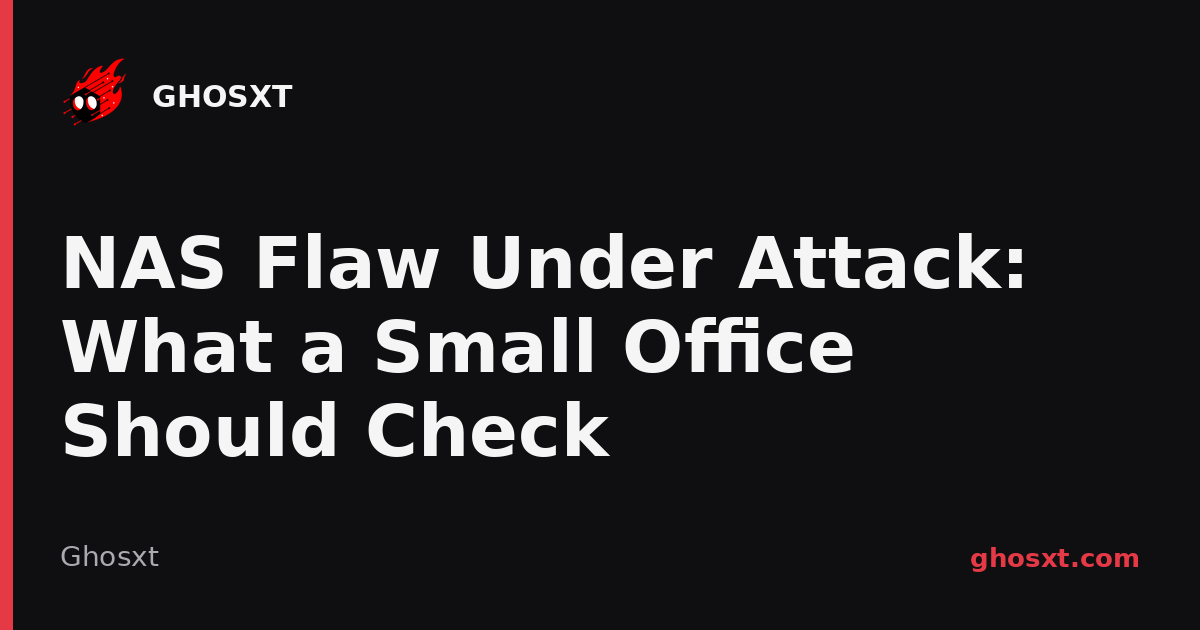
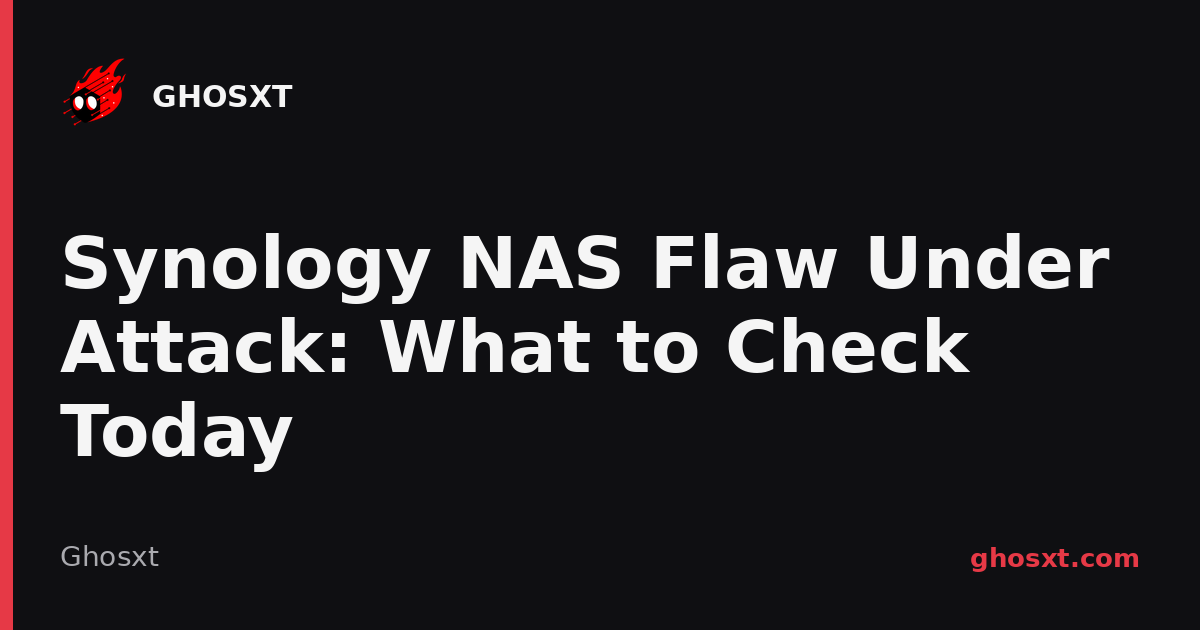
Name the affected NAS product and cite CISA's alert
Owner approved naming the maker in this post (chat, Nov 22), so the page
now names Synology DiskStation Manager, lists the fixed DSM releases and
links the Nov 10 advisory plus CISA's Nov 18 alert. Title, H1, meta, FAQ
and the blog index card updated to match; OG image re-rendered.

Regenerated: blog/all.html, feed.xml, assets/img/og/blog-nas-flaw-cisa-exploited-network-storage-small-business-2026.png

Claude-Session: https://claude.ai/code/session_01JpBd4DgE6mkjzECiG9Gj6x

Changed region(s): [[0.0308, 0.3619, 0.925, 0.6032], [0.0308, 0.6333, 0.2775, 0.754], [0.3083, 0.6333, 0.5242, 0.7238]]

diff --git a/blog/nas-flaw-cisa-exploited-network-storage-small-business-2026.html b/blog/nas-flaw-cisa-exploited-network-storage-small-business-2026.html
@@ -4,22 +4,22 @@
     <meta charset="UTF-8" />
     <meta name="viewport" content="width=device-width, initial-scale=1.0" />
     <meta name="theme-color" content="#ffffff" />
-    <title>NAS Flaw Under Attack: What a Small Office Should Check</title>
-    <meta name="description" content="CISA says a 2024 network storage (NAS) flaw is being exploited. What a small office should check today, and why a NAS on its own is not a backup." />
+    <title>Synology NAS Flaw Under Attack: What to Check Today</title>
+    <meta name="description" content="CISA says a 2024 Synology NAS flaw (CVE-2024-10441) is being exploited. What a small office should check today, and why a NAS is not a backup." />
     <link rel="canonical" href="https://ghosxt.com/blog/nas-flaw-cisa-exploited-network-storage-small-business-2026" />
     <link rel="alternate" type="application/rss+xml" title="Ghosxt Blog" href="https://ghosxt.com/feed.xml" />
     <meta property="og:type" content="article" />
     <meta property="og:url" content="https://ghosxt.com/blog/nas-flaw-cisa-exploited-network-storage-small-business-2026" />
-    <meta property="og:title" content="NAS Flaw Under Attack: What a Small Office Should Check" />
-    <meta property="og:description" content="On November 18, 2026, CISA added a critical network storage (NAS) flaw to its Known Exploited Vulnerabilities catalog. The fix has been available since 2024, which is the point: the box nobody logs into is the one nobody updates. What a small business should check today, why a NAS is not a backup, and what to do if one is behind on updates." />
+    <meta property="og:title" content="Synology NAS Flaw Under Attack: What to Check Today" />
+    <meta property="og:description" content="On November 18, 2026, CISA added a critical Synology NAS flaw (CVE-2024-10441) to its Known Exploited Vulnerabilities catalog. The fix has been available since 2024, which is the point: the box nobody logs into is the one nobody updates. What a small business should check today, why a NAS is not a backup, and what to do if one is behind on updates." />
     <meta property="og:image" content="https://ghosxt.com/assets/img/og/blog-nas-flaw-cisa-exploited-network-storage-small-business-2026.png" />
     <meta property="og:site_name" content="Ghosxt" />
     <meta property="article:published_time" content="2026-11-22" />
     <meta property="article:author" content="Ulises Paiz" />
     <meta name="robots" content="index, follow" />
     <meta name="twitter:card" content="summary_large_image" />
-    <meta name="twitter:title" content="NAS Flaw Under Attack: What a Small Office Should Check" />
-    <meta name="twitter:description" content="A critical NAS flaw fixed in 2024 is now being exploited, and the federal deadline passed yesterday. The plain-English checklist for a small office." />
+    <meta name="twitter:title" content="Synology NAS Flaw Under Attack: What to Check Today" />
+    <meta name="twitter:description" content="A critical Synology NAS flaw fixed in 2024 is now being exploited, and the federal deadline passed yesterday. The plain-English checklist for a small office." />
     <meta name="twitter:image" content="https://ghosxt.com/assets/img/og/blog-nas-flaw-cisa-exploited-network-storage-small-business-2026.png" />
     <link rel="icon" href="../assets/img/favicon.ico" sizes="any" />
     <link rel="icon" href="../assets/img/favicon.svg" type="image/svg+xml" />
@@ -45,8 +45,8 @@
               "@type": "WebPage",
               "@id": "https://ghosxt.com/blog/nas-flaw-cisa-exploited-network-storage-small-business-2026"
             },
-            "headline": "A 2024 Network Storage Flaw Is Now Under Attack: What a Small Business Should Check Today",
-            "description": "On November 18, 2026, CISA added a critical network storage (NAS) flaw to its Known Exploited Vulnerabilities catalog. The fix has been available since 2024, which is the point: the box nobody logs into is the one nobody updates. What a small business should check today, why a NAS is not a backup, and what to do if one is behind on updates.",
+            "headline": "A 2024 Synology NAS Flaw Is Now Under Attack: What a Small Business Should Check Today",
+            "description": "On November 18, 2026, CISA added a critical Synology NAS flaw (CVE-2024-10441) to its Known Exploited Vulnerabilities catalog. The fix has been available since 2024, which is the point: the box nobody logs into is the one nobody updates. What a small business should check today, why a NAS is not a backup, and what to do if one is behind on updates.",
             "image": "https://ghosxt.com/assets/img/og/blog-nas-flaw-cisa-exploited-network-storage-small-business-2026.png",
             "author": {
               "@type": "Person",
@@ -64,7 +64,7 @@
             "datePublished": "2026-11-22",
             "dateModified": "2026-11-22",
             "articleSection": "Cybersecurity",
-            "keywords": "NAS vulnerability, network attached storage security, CVE-2024-10441, CISA Known Exploited Vulnerabilities, NAS ransomware, small business backup, NAS firmware update, network storage remote code execution, patch management small business, Monterey County, Central Coast managed IT"
+            "keywords": "Synology NAS vulnerability, Synology DiskStation Manager DSM, CVE-2024-10441, network attached storage security, CISA Known Exploited Vulnerabilities, NAS ransomware, small business backup, NAS firmware update, network storage remote code execution, patch management small business, Monterey County, Central Coast managed IT"
           },
           {
             "@type": "BreadcrumbList",
@@ -84,7 +84,7 @@
               {
                 "@type": "ListItem",
                 "position": 3,
-                "name": "NAS Flaw Under Attack",
+                "name": "Synology NAS Flaw Under Attack",
                 "item": "https://ghosxt.com/blog/nas-flaw-cisa-exploited-network-storage-small-business-2026"
               }
             ]
@@ -94,18 +94,18 @@
             "mainEntity": [
               {
                 "@type": "Question",
-                "name": "What is the network storage flaw CISA added to its exploited list?",
+                "name": "What is the Synology NAS flaw CISA added to its exploited list?",
                 "acceptedAnswer": {
                   "@type": "Answer",
-                  "text": "CVE-2024-10441 is an output-encoding flaw in the operating system of a widely used line of small-office network storage (NAS) devices. It is rated Critical with a CVSS score of 9.8 and can lead to remote code execution, meaning an attacker runs their own commands on the device. CISA added it to its Known Exploited Vulnerabilities catalog on November 18, 2026, on evidence that attackers are using it. The maker published fixes in November 2024, so the problem today is devices that never received them. The CISA catalog entry names the affected product."
+                  "text": "CVE-2024-10441 is an output-encoding flaw in Synology DiskStation Manager (DSM), the operating system on Synology network storage (NAS) devices. It is rated Critical with a CVSS score of 9.8 and can lead to remote code execution, meaning an attacker runs their own commands on the device. CISA added it to its Known Exploited Vulnerabilities catalog on November 18, 2026, on evidence that attackers are using it. Synology published fixes in November 2024, so the problem today is devices that never received them."
                 }
               },
               {
                 "@type": "Question",
-                "name": "Does this affect a small office that has a NAS?",
+                "name": "Does this affect a small office that has a Synology NAS?",
                 "acceptedAnswer": {
                   "@type": "Answer",
-                  "text": "It can. If your office has a network storage box, find out who makes it and what version it is running, then compare it with the maker's advisory for CVE-2024-10441. Reports describe the flaw as needing no login and no user action, so a device that can be reached over the network, especially one reachable from the internet, should be treated as exposed until it is confirmed updated. A device that is current on its firmware is covered."
+                  "text": "It can. Sign in to the device, read the DSM version, and compare it with the fixed releases: 7.2.2-72806-1, 7.2.1-69057-6 or 7.2-64570-4, or later. Reports describe the flaw as needing no login and no user action, so a device that can be reached over the network, especially one reachable from the internet, should be treated as exposed until it is confirmed updated. A device that is current on its firmware is covered. If your NAS is a different brand, this flaw does not apply, but the checklist in this post does."
                 }
               },
               {
@@ -113,7 +113,7 @@
                 "name": "Was this flaw used in ransomware attacks?",
                 "acceptedAnswer": {
                   "@type": "Answer",
-                  "text": "CISA's catalog lists ransomware use for this flaw as unknown. One report says the maker stated earlier in November that the flaw was exploited in ransomware attacks on NAS devices, and that the attacks reportedly used a family called C3RB3R. We could not confirm that from a primary source, so treat it as reported, not proven. Either way, a NAS that holds shared files and backups is exactly what ransomware operators want to reach."
+                  "text": "CISA's catalog lists ransomware use for this flaw as unknown. One report says Synology stated earlier in November that the flaw was exploited in ransomware attacks on NAS devices, and that the attacks reportedly used a family called C3RB3R. We could not confirm that from a primary source, so treat it as reported, not proven. Either way, a NAS that holds shared files and backups is exactly what ransomware operators want to reach."
                 }
               },
               {
@@ -291,7 +291,7 @@
       <header class="blog-post-header">
         <div class="container">
           <nav class="blog-post-breadcrumbs" aria-label="Breadcrumb">
-            <a href="/">Home</a><span class="sep">&rsaquo;</span><a href="/blog/">Blog</a><span class="sep">&rsaquo;</span><span aria-current="page">NAS Flaw Under Attack</span>
+            <a href="/">Home</a><span class="sep">&rsaquo;</span><a href="/blog/">Blog</a><span class="sep">&rsaquo;</span><span aria-current="page">Synology NAS Flaw Under Attack</span>
           </nav>
           <div class="blog-post-meta">
             <time datetime="2026-11-22">November 22, 2026</time>
@@ -300,7 +300,7 @@
             <span>&middot;</span>
             <span class="blog-card-tag">Cybersecurity</span>
           </div>
-          <h1>A 2024 Network Storage Flaw Is Now Under Attack: What a Small Business Should Check Today</h1>
+          <h1>A 2024 Synology NAS Flaw Is Now Under Attack: What a Small Business Should Check Today</h1>
           <div class="blog-post-author">
             <strong>Ulises Paiz</strong>, Owner, Ghosxt
           </div>
@@ -314,39 +314,41 @@
       <div class="blog-post-body">
         <div class="container">
           <aside class="blog-post-quickfix" aria-label="Summary and what to do now">
-            <span class="quickfix-label">TL;DR: a critical NAS flaw fixed in 2024 is now being exploited</span>
-            <h2>On November 18, CISA added a critical network storage flaw to its list of vulnerabilities attackers are using right now. The fix has existed since November 2024. The risk is the NAS in your closet that nobody has logged into since the day it was set up, and it is often the same box that holds your shared files and your backups.</h2>
+            <span class="quickfix-label">TL;DR: a critical Synology NAS flaw fixed in 2024 is now being exploited</span>
+            <h2>On November 18, CISA added a critical Synology NAS flaw to its list of vulnerabilities attackers are using right now. The fix has existed since November 2024. The risk is the NAS in your closet that nobody has logged into since the day it was set up, and it is often the same box that holds your shared files and your backups.</h2>
             <ul>
-              <li><strong>The flaw:</strong> CVE-2024-10441, CVSS 9.8, remote code execution in the operating system of a popular line of small-office NAS devices. Reports say it needs no login and no user action.</li>
+              <li><strong>The flaw:</strong> CVE-2024-10441, CVSS 9.8, remote code execution in Synology DiskStation Manager (DSM), the operating system on Synology NAS devices. Reports say it needs no login and no user action.</li>
               <li><strong>The status:</strong> CISA lists it as exploited. The federal deadline to patch was November 21, which was yesterday. Ransomware use is listed as unknown by CISA, though one report ties it to ransomware attacks on NAS devices.</li>
               <li><strong>The easy miss:</strong> a NAS is an appliance. Windows Update never touches it, and no patch tool reports on it unless someone adds it.</li>
             </ul>
             <p>Do this now:</p>
             <ol>
-              <li>Find every network storage box in the office and write down who makes it and which model it is.</li>
+              <li>Find every network storage box in the office and note the maker and model. A Synology is the product in this flaw.</li>
               <li>Sign in as an administrator, check the version, and install the maker's latest update. If nobody can sign in, call whoever set it up or call us.</li>
               <li>Confirm the admin page and file ports are not reachable from the internet, and that a second copy of your data lives somewhere the NAS cannot touch.</li>
             </ol>
             <p>This is the appliance side of the story in our <a href="/blog/november-2026-patch-tuesday-outlook-zero-day-smb">November Patch Tuesday post</a>. Our <a href="/managed-it-services">managed IT page</a> covers how patching reaches the devices Windows Update does not.</p>
           </aside>
 
-          <p>CISA, the US cybersecurity agency, added four vulnerabilities to its Known Exploited Vulnerabilities catalog on November 18, 2026, and one of them is in the software that runs a popular line of small-office network storage devices, known as NAS boxes. This post is for any small business in Monterey County and surrounding areas that keeps files or backups on one. It explains what the flaw is, why a two-year-old bug is suddenly urgent, what to check today, and what to do if a device turns out to be behind.</p>
+          <p>CISA, the US cybersecurity agency, added four vulnerabilities to its Known Exploited Vulnerabilities catalog on November 18, 2026, and one of them is in Synology DiskStation Manager (DSM), the software that runs Synology network storage devices, known as NAS boxes. This post is for any small business in Monterey County and surrounding areas that keeps files or backups on one. It explains what the flaw is, why a two-year-old bug is suddenly urgent, what to check today, and what to do if a device turns out to be behind.</p>
 
           <h2>What this means for a small business</h2>
 
           <p>The blind spot is the appliance. Computers get monthly updates because Windows prompts for them, and an owner reasonably assumes the rest of the network gets the same treatment. A NAS does not. It is a small server with its own operating system, its own admin page and its own update process, and it is usually set up once, by whoever was handy, and then left alone because it keeps working. Nothing breaks, so nothing prompts anyone to look.</p>
 
-          <p>That is what makes this month's addition worth a read even though the fix is old. According to <a href="https://smartscope.blog/en/blog/synology-diskstation-manager-dsm-cisa-adds-vulnerability-cve-2026/" target="_blank" rel="noopener noreferrer">SmartScope's summary</a> of the maker's advisory, fixes were published in November 2024. Attackers are using the flaw in November 2026 because enough devices are still running the old software to be worth the effort. A patch that exists does not protect a device that never installed it.</p>
+          <p>That is what makes this month's addition worth a read even though the fix is old. According to <a href="https://smartscope.blog/en/blog/synology-diskstation-manager-dsm-cisa-adds-vulnerability-cve-2026/" target="_blank" rel="noopener noreferrer">SmartScope's summary</a> of Synology's advisory, fixes were published in November 2024. Attackers are using the flaw in November 2026 because enough devices are still running the old software to be worth the effort. A patch that exists does not protect a device that never installed it.</p>
 
           <p>The second blind spot is what lives on the box. In a small office the NAS commonly holds the shared drive, the accounting data, the scans, and the nightly backup of the computers. If an attacker or ransomware gets control of it, the damage is not one machine. It is the files and the copies of the files, in one place.</p>
 
           <h2>The flaw CISA added: a 9.8 in network storage software</h2>
 
-          <p>CVE-2024-10441 is an improper output encoding flaw, rated Critical at CVSS 9.8, that can lead to remote code execution in the system software of the affected NAS line. Remote code execution means an attacker can run their own commands on the device. <a href="https://securityonline.info/cisa-adds-4-exploited-flaws-kev-synology-litellm/" target="_blank" rel="noopener noreferrer">SecurityOnline</a> says a remote attacker needs no login, and the CVSS vector quoted by <a href="https://smartscope.blog/en/blog/synology-diskstation-manager-dsm-cisa-adds-vulnerability-cve-2026/" target="_blank" rel="noopener noreferrer">SmartScope</a> lists no privileges and no user interaction required. The public reports do not describe how the attacks work in practice, so we treat any device that can be reached over the network as exposed until it is confirmed updated.</p>
+          <p>CVE-2024-10441 is an improper output encoding flaw, rated Critical at CVSS 9.8, that can lead to remote code execution in Synology DiskStation Manager (DSM). Remote code execution means an attacker can run their own commands on the device. <a href="https://securityonline.info/cisa-adds-4-exploited-flaws-kev-synology-litellm/" target="_blank" rel="noopener noreferrer">SecurityOnline</a> says a remote attacker needs no login, and the CVSS vector quoted by <a href="https://smartscope.blog/en/blog/synology-diskstation-manager-dsm-cisa-adds-vulnerability-cve-2026/" target="_blank" rel="noopener noreferrer">SmartScope</a> lists no privileges and no user interaction required. The public reports do not describe how the attacks work in practice, so we treat any device that can be reached over the network as exposed until it is confirmed updated.</p>
 
-          <p>CISA added it on evidence of exploitation, with a federal deadline of November 21, 2026. That deadline does not bind a small business, but it is a useful yardstick: federal agencies were given three days. The <a href="https://www.cisa.gov/known-exploited-vulnerabilities-catalog" target="_blank" rel="noopener noreferrer">CISA catalog entry</a> names the affected product and the required action. If your office has a NAS, look up who makes it and compare it with that entry.</p>
+          <p>CISA added it on evidence of exploitation, with a federal deadline of November 21, 2026. That deadline does not bind a small business, but it is a useful yardstick: federal agencies were given three days. The <a href="https://www.cisa.gov/known-exploited-vulnerabilities-catalog" target="_blank" rel="noopener noreferrer">CISA catalog entry</a> lists the affected products and the required action. If your office has a Synology NAS, check its DSM version against the fixed releases below.</p>
 
-          <p>On ransomware, be precise. CISA lists ransomware use for this flaw as unknown. <a href="https://letsdatascience.com/news/cisa-adds-four-exploited-flaws-including-litellm-to-kev-cata-4eb52bab" target="_blank" rel="noopener noreferrer">A report summarizing The Hacker News</a> says the maker stated earlier in November that the flaw had been exploited in ransomware attacks on NAS devices, reportedly deploying a family called C3RB3R. We have not confirmed that from a primary source, so read it as reported. It fits the pattern we described in <a href="/blog/ransomware-2026-how-it-gets-in">how ransomware actually gets in</a>: attackers go after the unpatched device that sits in front of the data.</p>
+          <p>Per <a href="https://securityonline.info/cisa-adds-4-exploited-flaws-kev-synology-litellm/" target="_blank" rel="noopener noreferrer">SecurityOnline</a> and <a href="https://smartscope.blog/en/blog/synology-diskstation-manager-dsm-cisa-adds-vulnerability-cve-2026/" target="_blank" rel="noopener noreferrer">SmartScope</a>, the fixed DSM releases are 7.2.2-72806-1, 7.2.1-69057-6 and 7.2-64570-4, or later. SecurityOnline also lists fixes for DSM 7.1.1-42962-7 and 6.2.4-25556-8, though SmartScope says it could not confirm that those older branches are affected. Synology's separate BeeStation OS is also named in the entry, with a fix in 1.1-65374.</p>
+
+          <p>On ransomware, be precise. CISA lists ransomware use for this flaw as unknown. <a href="https://letsdatascience.com/news/cisa-adds-four-exploited-flaws-including-litellm-to-kev-cata-4eb52bab" target="_blank" rel="noopener noreferrer">A report summarizing The Hacker News</a> says Synology stated earlier in November that the flaw had been exploited in ransomware attacks on NAS devices, reportedly deploying a family called C3RB3R. We have not confirmed that from a primary source, so read it as reported. It fits the pattern we described in <a href="/blog/ransomware-2026-how-it-gets-in">how ransomware actually gets in</a>: attackers go after the unpatched device that sits in front of the data.</p>
 
           <h2>The other three flaws CISA added the same day</h2>
 
@@ -384,7 +386,7 @@
 
           <h2>For whoever manages your IT</h2>
 
-          <p>Compare the installed version with the maker's advisory for CVE-2024-10441 and move to the fixed release for your branch or later. The reports we read list fixes across several branches, so confirm yours against the advisory itself rather than a recap. Block inbound access to the management interface and file-sharing ports from the internet at the firewall, restrict administration to a management network or VPN, and disable any relay or remote-access service that is not in active use. The <a href="/blog/business-firewall-vs-isp-router-small-business-2026">business firewall post</a> covers what a small office firewall should be doing.</p>
+          <p>Compare the installed DSM version with the fixed releases above and move to those or later. Synology also published a separate advisory on November 10 (<a href="https://www.synology.com/en-us/support/security/Synology_SA_26_19" target="_blank" rel="noopener noreferrer">Synology-SA-26:19</a>) rated Critical, with newer fixed releases, so go to the latest DSM release for your branch rather than stopping at the 2024 fix. Confirm against Synology's own advisories rather than a recap. Block inbound access to the management interface and file-sharing ports from the internet at the firewall, restrict administration to a management network or VPN, and disable any relay or remote-access service that is not in active use. The <a href="/blog/business-firewall-vs-isp-router-small-business-2026">business firewall post</a> covers what a small office firewall should be doing.</p>
 
           <p>Review the administrator list, scheduled tasks, installed packages and recent logins for anything unfamiliar, since a device that was reachable and unpatched for a long time may have been touched before anyone looked. Protect snapshots and backup jobs with separate credentials, keep one copy off the network, and put the device in whatever inventory and update cadence you use for servers. If the vendor has ended support for the model, retire it. <a href="/blog/multi-factor-authentication-small-business-2026">Multi-factor authentication</a> on the admin account and on any cloud service that replaces remote access closes the most common follow-on path.</p>
 
@@ -401,16 +403,16 @@
 
           <p>We help small businesses in Monterey County and surrounding areas keep track of the devices that quietly fall behind. This is the kind of thing we watch so you do not have to.</p>
 
-          <h2>FAQs about the NAS flaw CISA added</h2>
+          <h2>FAQs about the Synology NAS flaw CISA added</h2>
 
-          <h3>What is the network storage flaw CISA added to its exploited list?</h3>
-          <p>CVE-2024-10441 is an output-encoding flaw in the operating system of a widely used line of small-office network storage (NAS) devices. It is rated Critical with a CVSS score of 9.8 and can lead to remote code execution, meaning an attacker runs their own commands on the device. CISA added it to its Known Exploited Vulnerabilities catalog on November 18, 2026, on evidence that attackers are using it. The maker published fixes in November 2024, so the problem today is devices that never received them. The CISA catalog entry names the affected product.</p>
+          <h3>What is the Synology NAS flaw CISA added to its exploited list?</h3>
+          <p>CVE-2024-10441 is an output-encoding flaw in Synology DiskStation Manager (DSM), the operating system on Synology network storage (NAS) devices. It is rated Critical with a CVSS score of 9.8 and can lead to remote code execution, meaning an attacker runs their own commands on the device. CISA added it to its Known Exploited Vulnerabilities catalog on November 18, 2026, on evidence that attackers are using it. Synology published fixes in November 2024, so the problem today is devices that never received them.</p>
 
-          <h3>Does this affect a small office that has a NAS?</h3>
-          <p>It can. If your office has a network storage box, find out who makes it and what version it is running, then compare it with the maker's advisory for CVE-2024-10441. Reports describe the flaw as needing no login and no user action, so a device that can be reached over the network, especially one reachable from the internet, should be treated as exposed until it is confirmed updated. A device that is current on its firmware is covered.</p>
+          <h3>Does this affect a small office that has a Synology NAS?</h3>
+          <p>It can. Sign in to the device, read the DSM version, and compare it with the fixed releases: 7.2.2-72806-1, 7.2.1-69057-6 or 7.2-64570-4, or later. Reports describe the flaw as needing no login and no user action, so a device that can be reached over the network, especially one reachable from the internet, should be treated as exposed until it is confirmed updated. A device that is current on its firmware is covered. If your NAS is a different brand, this flaw does not apply, but the checklist in this post does.</p>
 
           <h3>Was this flaw used in ransomware attacks?</h3>
-          <p>CISA's catalog lists ransomware use for this flaw as unknown. One report says the maker stated earlier in November that the flaw was exploited in ransomware attacks on NAS devices, and that the attacks reportedly used a family called C3RB3R. We could not confirm that from a primary source, so treat it as reported, not proven. Either way, a NAS that holds shared files and backups is exactly what ransomware operators want to reach.</p>
+          <p>CISA's catalog lists ransomware use for this flaw as unknown. One report says Synology stated earlier in November that the flaw was exploited in ransomware attacks on NAS devices, and that the attacks reportedly used a family called C3RB3R. We could not confirm that from a primary source, so treat it as reported, not proven. Either way, a NAS that holds shared files and backups is exactly what ransomware operators want to reach.</p>
 
           <h3>How do I know if my NAS is up to date?</h3>
           <p>Sign in to the device's admin page and look for the system or control panel version, then compare it with the maker's latest release for your model. Do not rely on the device to tell you it is fine. Many network storage boxes check for updates only when asked, and many have never been logged into since the day they were set up. If nobody at your company can sign in as an administrator, that is a finding in itself.</p>
@@ -423,7 +425,9 @@
 
           <p style="margin-top: 2rem; font-size: 0.9rem; color: rgba(0,0,0,0.7); overflow-wrap: anywhere;">
             <strong>Sources:</strong>
+            <a href="https://www.cisa.gov/news-events/alerts/2026/11/18/cisa-adds-four-known-exploited-vulnerabilities-catalog" target="_blank" rel="noopener noreferrer">CISA alert, November 18, 2026</a> &middot;
             <a href="https://www.cisa.gov/known-exploited-vulnerabilities-catalog" target="_blank" rel="noopener noreferrer">CISA Known Exploited Vulnerabilities catalog</a> &middot;
+            <a href="https://www.synology.com/en-us/support/security/Synology_SA_26_19" target="_blank" rel="noopener noreferrer">Synology advisory SA-26:19</a> &middot;
             <a href="https://securityonline.info/cisa-adds-4-exploited-flaws-kev-synology-litellm/" target="_blank" rel="noopener noreferrer">SecurityOnline</a> &middot;
             <a href="https://smartscope.blog/en/blog/synology-diskstation-manager-dsm-cisa-adds-vulnerability-cve-2026/" target="_blank" rel="noopener noreferrer">SmartScope</a> &middot;
             <a href="https://letsdatascience.com/news/cisa-adds-four-exploited-flaws-including-litellm-to-kev-cata-4eb52bab" target="_blank" rel="noopener noreferrer">Let's Data Science</a>

diff --git a/blog/all.html b/blog/all.html
@@ -292,7 +292,7 @@
               <tbody>
                 <!-- BEGIN:ROWS -->
                 <tr id="cat-cybersecurity">
-                  <td class="col-name"><a href="/blog/nas-flaw-cisa-exploited-network-storage-small-business-2026"><i class="fi fi-rs-document file-icon" aria-hidden="true"></i><span>NAS Flaw Under Attack: What a Small Office Should Check</span></a></td>
+                  <td class="col-name"><a href="/blog/nas-flaw-cisa-exploited-network-storage-small-business-2026"><i class="fi fi-rs-document file-icon" aria-hidden="true"></i><span>Synology NAS Flaw Under Attack: What to Check Today</span></a></td>
                   <td class="col-kind">Cybersecurity</td>
                   <td class="col-date"><time datetime="2026-11-22">November 22, 2026</time></td>
                 </tr>

diff --git a/blog/index.html b/blog/index.html
@@ -203,8 +203,8 @@
                 <time datetime="2026-11-22">November 22, 2026</time>
                 <span class="blog-card-tag">Cybersecurity</span>
               </div>
-              <h2>NAS Flaw Under Attack: What a Small Office Should Check</h2>
-              <p>CISA says a 2024 network storage flaw is being exploited. What a small office with a NAS should check today, and why a NAS is not a backup.</p>
+              <h2>Synology NAS Flaw Under Attack: What to Check Today</h2>
+              <p>CISA says a 2024 Synology NAS flaw is being exploited. What a small office should check today, and why a NAS is not a backup.</p>
               <span class="blog-card-cta">Read post <i class="fi fi-rs-arrow-right" aria-hidden="true"></i></span>
             </a>
           </article>
